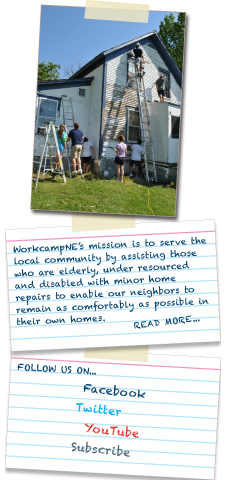
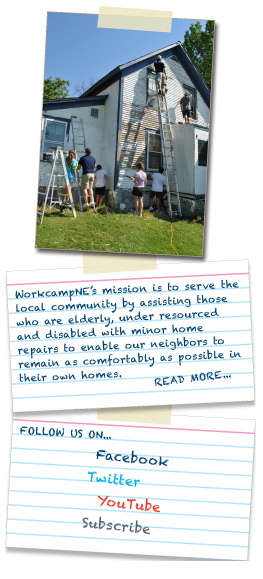
first round of fixes

diff --git a/style.css b/style.css
@@ -61,41 +61,45 @@ HTML Boilerplate styles can be found in the html5-boilerplate/css directory.
 	padding-top: 10px;
 }
 
+#overlay-wrap{
+	left:-7px !important;
+}
+
 /* -------------------------THEME STYLEs START HERE ----------------------------*/
 body{
 	background:url(images/Wood-background-wc.jpg);
 }
 
 #header{
-	height:110px;
+	height:101px;
 	position:relative;
 }
 
 #header #logo{
 	position:absolute;
-	top: -29px;
-	left: -6px;
+	top: -30px;
+	left: -26px;
 }
 
 #header #ribbon{
-	position:absolute;
-	right: -95px;
-	top: -56px;
+	position: absolute;
+	right: -91px;
+	top: -58px;
 }
 
+
 #nav{
-	padding: 5px 0px 15px;
-	text-align:center;
+	padding: 6px 0px 19px;
 	position:relative;
-	z-index:20px;
+	z-index:20;
 }
 
 #nav ul {margin:0; padding:0; list-style:none;}
 
 #nav ul li{
-	display:inline-block;
-	padding-right:25px;
-	margin-right:8px;
+	display: inline-block;
+	padding-right: 22px;
+	margin-right: 7px;
 	background: url(images/menu-dots-wc.jpg) no-repeat center right;
 }
 
@@ -116,25 +120,26 @@ body{
 	background:none;
 }
 
-#nav-push{margin-left:80px;}
+#nav-push{margin-left:108px;}
 	
 #container{
-	width: 835px;
-	margin: 10px auto;
-	background:#fff;
-	padding:30px;
-	padding-bottom: 15px;
+	width: 809px;
+	margin: 0px auto;
+	background: white;
+	padding: 30px 26px 0 30px;
+	padding-bottom: 15px
 }
 
+
 #main{
-	width:566px;
+	width:552px;
 	float:left;	
 }
 
 
 
 #main-content-head{
-	margin-top:10px;
+	margin-top:7px;
 }
 
 /*----POSTS--------*/
@@ -145,7 +150,11 @@ body{
 	color:#504E4D;
 }
 
-.post .title{ margin-top:5px; margin-bottom:0px;}
+.post .title{ 
+	margin-top:5px;
+	margin-bottom:0px;
+	font-size:1.3em;
+}
 
 .post .meta{
 	font-size: 11px;
@@ -156,7 +165,12 @@ body{
 }
 .post .content{
 	font-size:13px;
-	color: #504E4D;
+	color: #AB9C8F;
+}
+
+.post h4{
+	color:#033568;
+	margin: 10px 0 12px 0;
 }
 
 .post p{
@@ -165,8 +179,7 @@ body{
 }
 
 .post strong{
-	
-	color:#033568;
+
 }
 
 .post .content a:link,
@@ -320,28 +333,29 @@ body{
 /*--------sidebar----------*/
 
 #sidebar{
-	width:220px;
+	width:217px;
 	float:right;
-	margin-top:10px;
+	padding-top:10px;
 	background:url(images/dotted-verticle-line-wc.jpg) repeat-y; 
-	padding-left:20px;
+	padding-left:33px;
 }
 
 #sidebar #content-wrap{
-	width:211px;
-	margin:0 auto;
+	width:217px;
 	background:url(images/light-wood-wc-2.png);
 	padding-bottom:20px;
+	border:1px solid #BEB7AC;
 }
 
 #sidebar #content-wrap #fixed-content{
 	position:relative;
-	min-height:500px;
+	min-height:565px;
 }
 
 #sidebar #content-wrap #fixed-content img{
 	position:absolute;
-	top:-9px;
+	top:-17px;
+	left:-21px;
 }
 
 #sidebar .fixed-link{
@@ -352,14 +366,14 @@ body{
 }
 
 #about-link{
-	top:289px;
+	top:389px;
 	width:100px;
 	z-index:30;
 	right:0;
 }
 
 #fixed-content #facebook{
-	top: 369px;
+	top: 429px;
 	width: 149px;
 	z-index: 30;
 	right: 10px;
@@ -367,7 +381,7 @@ body{
 }
 
 #fixed-content #twitter{
-	 top: 389px;
+	 top: 453px;
         width: 149px;
         z-index: 30;
         right: 10px;
@@ -376,7 +390,7 @@ body{
 
 
 #fixed-content #youtube{
-	top: 410px;
+	top: 476px;
         width: 130px;
         z-index: 30;
         right: 20px;
@@ -384,11 +398,11 @@ body{
 }
 
 #fixed-content #subscribe{
-	top:430px;
+	top:500px;
 	width:130px;
 	z-index:30;
 	height:19px;
-	right:20px;
+	right:32px;
 }
 
 #sidebar #categories{
@@ -429,8 +443,9 @@ body{
 	border:1px solid #ddd6ce;
         padding:3px 2px;
         margin-top:5px;
-        background: #f5f4f2
-
+        background: #f5f4f2;
+	width:175px;
+	
 }
 
 /*contact form*/
@@ -506,6 +521,12 @@ body{
 
 #footer a:hover{text-decoration:underline;}
 
+.wcne-text-logo{
+	text-transform:lowercase;
+}
+.wcne-text-logo i{
+	text-transform: uppercase;
+}
 
 /* Some reusable classes */
 .dashed-bottom-border{

diff --git a/footer.php b/footer.php
@@ -6,7 +6,7 @@
 ?>
   <div class="clearfix"></div>
   <div id="footer" class="font-blue">
-	workcampNE Inc. is a recognized 501(c)(3) &bull; <a href="https://www.paypal.com/us/cgi-bin/webscr?cmd=_flow&SESSION=Hoc9kaM4tln-wu5_lSks70Zc0ub11lY5qn6Oa5lGmod4df-_DUwFWH_uuTO&dispatch=5885d80a13c0db1f8e263663d3faee8db02a037e263542f58098410815cf7df7" target="blank">Donate to Workcamp</a>
+	<span class="wcne-text-logo">workcamp<i>NE</i></span> Inc. is a recognized 501(c)(3) &bull; <a href="https://www.paypal.com/us/cgi-bin/webscr?cmd=_flow&SESSION=Hoc9kaM4tln-wu5_lSks70Zc0ub11lY5qn6Oa5lGmod4df-_DUwFWH_uuTO&dispatch=5885d80a13c0db1f8e263663d3faee8db02a037e263542f58098410815cf7df7" target="blank">Donate to Workcamp</a>
   </div>
 </div> <!--! end of #container -->
 
@@ -20,7 +20,7 @@
 
   <?php versioned_javascript($GLOBALS["TEMPLATE_RELATIVE_URL"]."html5-boilerplate/js/plugins.js") ?>
   <?php versioned_javascript($GLOBALS["TEMPLATE_RELATIVE_URL"]."html5-boilerplate/js/main.js") ?>
-
+<?php //versioned_javascript($GLOBALS["TEMPLATE_RELATIVE_URL"]."html5-boilerplate/js/vendor/frendeto.js") ?>
   <script>
     var _gaq=[['_setAccount','UA-XXXXX-X'],['_trackPageview']];
     (function(d,t){var g=d.createElement(t),s=d.getElementsByTagName(t)[0];
